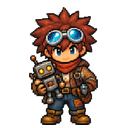
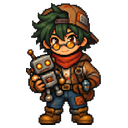
Replace the 7 Rook lookalike townsfolk with the owner's redesigned heads (front + back)

diff --git a/tools/npc_cut.py b/tools/npc_cut.py
@@ -34,6 +34,16 @@ for world, roles in ROSTER.items():
             c = Image.new('RGBA', (128, 128), (0, 0, 0, 0)); c.alpha_composite(b, ((128 - b.width) // 2, 128 - 3 - b.height))
             c.save(f'{OUT}/{world}_{role}{suf}.png', optimize=True); made.append(f'{world}_{role}{suf}')
 print(len(made), 'sprites:', ', '.join(sorted({m.rsplit('_up', 1)[0] for m in made})))
+# single-character replacements (art/raw/npcs/rook_fix/<sprite>[_up].png, one figure per image) win over the sheet cut
+FIX = APP + '/art/raw/npcs/rook_fix'
+if os.path.isdir(FIX):
+    for f in sorted(os.listdir(FIX)):
+        if not f.endswith('.png'): continue
+        im = cutout(Image.open(f'{FIX}/{f}')); b = im.crop(im.getbbox()); k = 122 / b.height
+        b = b.resize((max(1, round(b.width * k)), 122), Image.LANCZOS)
+        if b.width > 126: b = b.resize((126, max(1, round(b.height * 126 / b.width))), Image.LANCZOS)
+        c = Image.new('RGBA', (128, 128), (0, 0, 0, 0)); c.alpha_composite(b, ((128 - b.width) // 2, 128 - 3 - b.height)); c.save(f'{OUT}/{f}', optimize=True)
+    print('replacements:', len([f for f in os.listdir(FIX) if f.endswith('.png')]))
 # the list the build uses to put each world's own people on its maps (only worlds whose sheets exist)
 folk = {w: [r for r in roles if os.path.exists(f'{OUT}/{w}_{r}.png')] for w, roles in ROSTER.items()}
 json.dump({w: r for w, r in folk.items() if r}, open(APP + '/data/world_folk.json', 'w'), indent=1)
